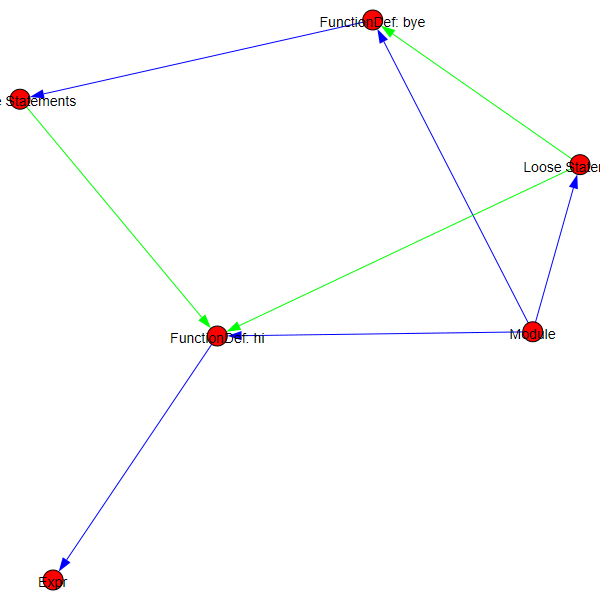
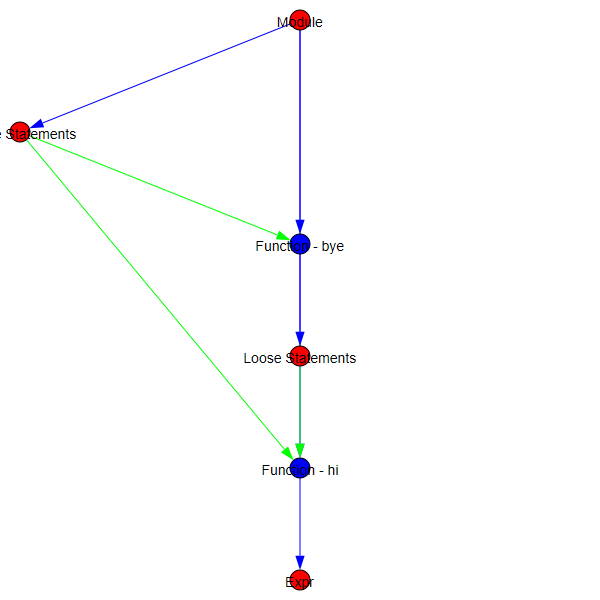
Added layouts

diff --git a/AST.py b/AST.py
@@ -109,8 +109,8 @@ def combine_nodes(ID1, ID2):
 # Traverses through node list and adds each node to the graph
 def add_nodes(graph):
     for index in node_list:
-        if 'Name' in index:
-            graph.add_vertex(name=index['ID'], label=index['Type'] + ': ' + index['Name'])
+        if index['Type'] == 'FunctionDef':
+            graph.add_vertex(name=index['ID'], label='Function - ' + index['Name'], color='blue')
         else:
             graph.add_vertex(name=index['ID'], label=index['Type'])
 
@@ -148,8 +148,25 @@ def visualize_ast():
     # Deletes self-loop edges
     newGraph.simplify(multiple=False, loops=True)
 
-    layout = newGraph.layout('kk')
-    igraph.plot(newGraph, 'AST.png', layout=layout)
+    # List of all possible igraph layouts
+    #igraph.plot(newGraph, 'AST.png', layout='auto')
+    #igraph.plot(newGraph, 'AST.png', layout='random')
+    #igraph.plot(newGraph, 'AST.png', layout='grid')
+    #igraph.plot(newGraph, 'AST.png', layout='drl')
+    #igraph.plot(newGraph, 'AST.png', layout='star')
+    #igraph.plot(newGraph, 'AST.png', layout='circle')
+    #igraph.plot(newGraph, 'AST.png', layout='kamada_kawai')
+    #igraph.plot(newGraph, 'AST.png', layout='graphopt')
+    #igraph.plot(newGraph, 'AST.png', layout='reingold_tilford_circular')
+    #igraph.plot(newGraph, 'AST.png', layout='mds')
+    #igraph.plot(newGraph, 'AST.png', layout='lgl')
+
+
+    # My favorite layouts
+    #igraph.plot(newGraph, 'AST.png', layout='reingold_tilford')
+    igraph.plot(newGraph, 'AST.png', layout='sugiyama')
+    #igraph.plot(newGraph, 'AST.png', layout='davidson_harel')
+    #igraph.plot(newGraph, 'AST.png', layout='fruchterman_reingold')
 
 
 # Generates AST
